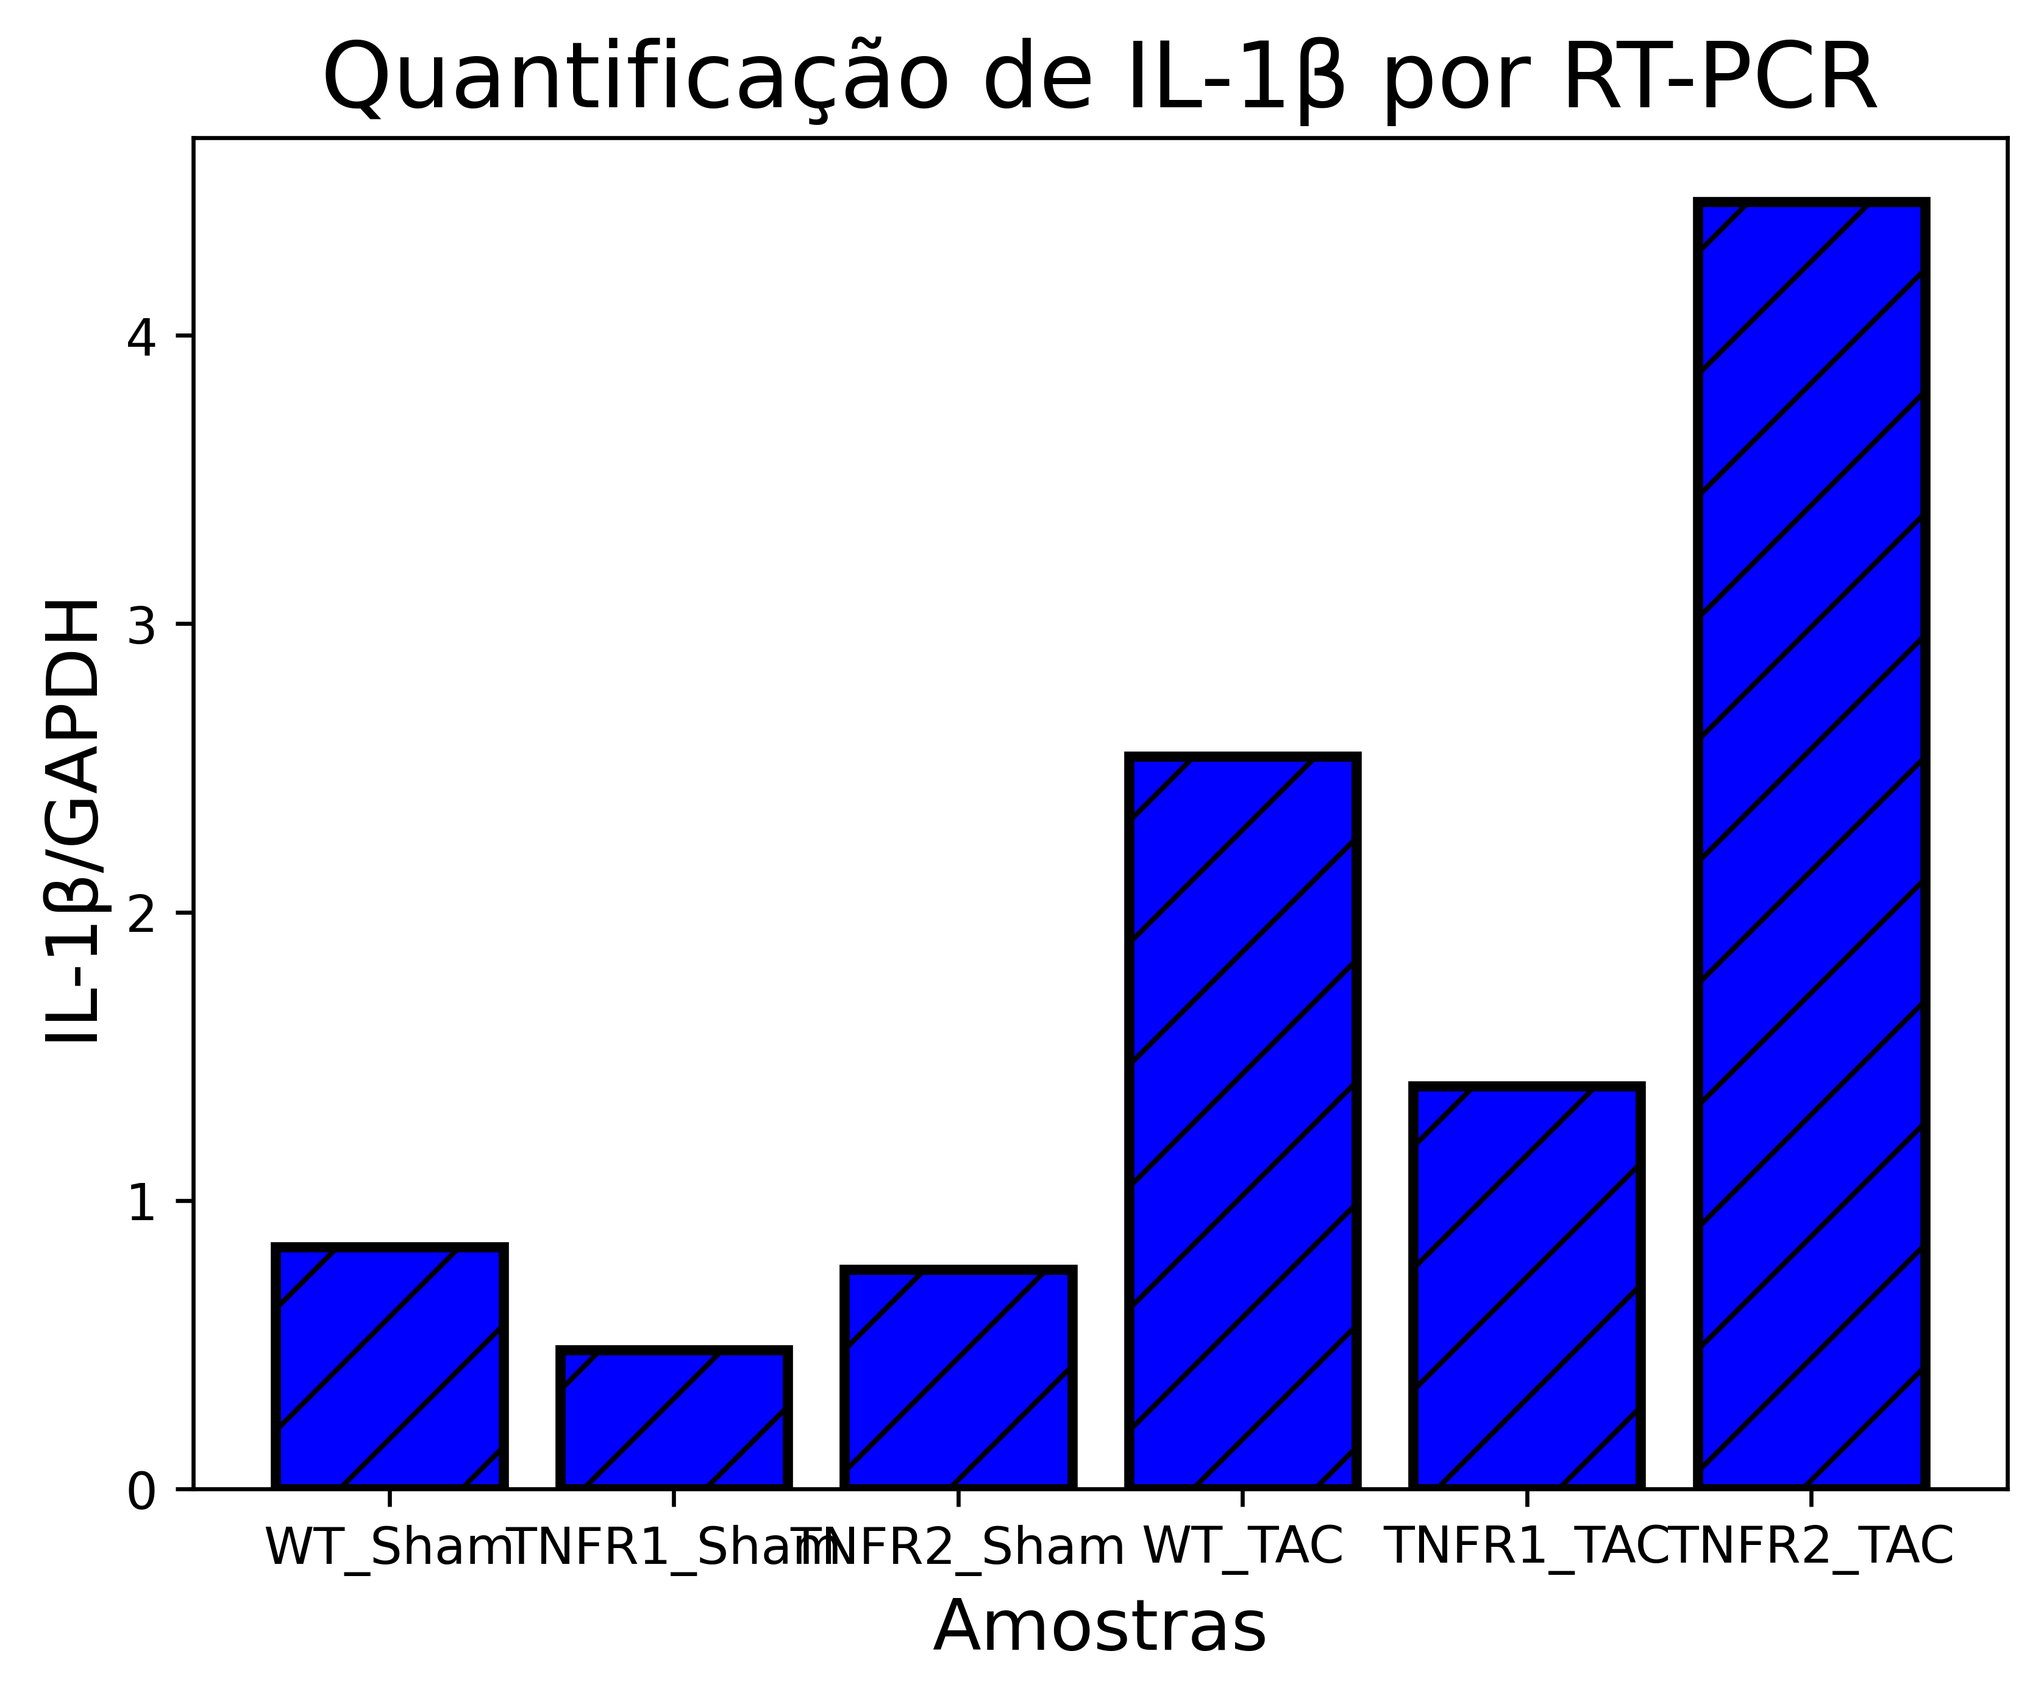
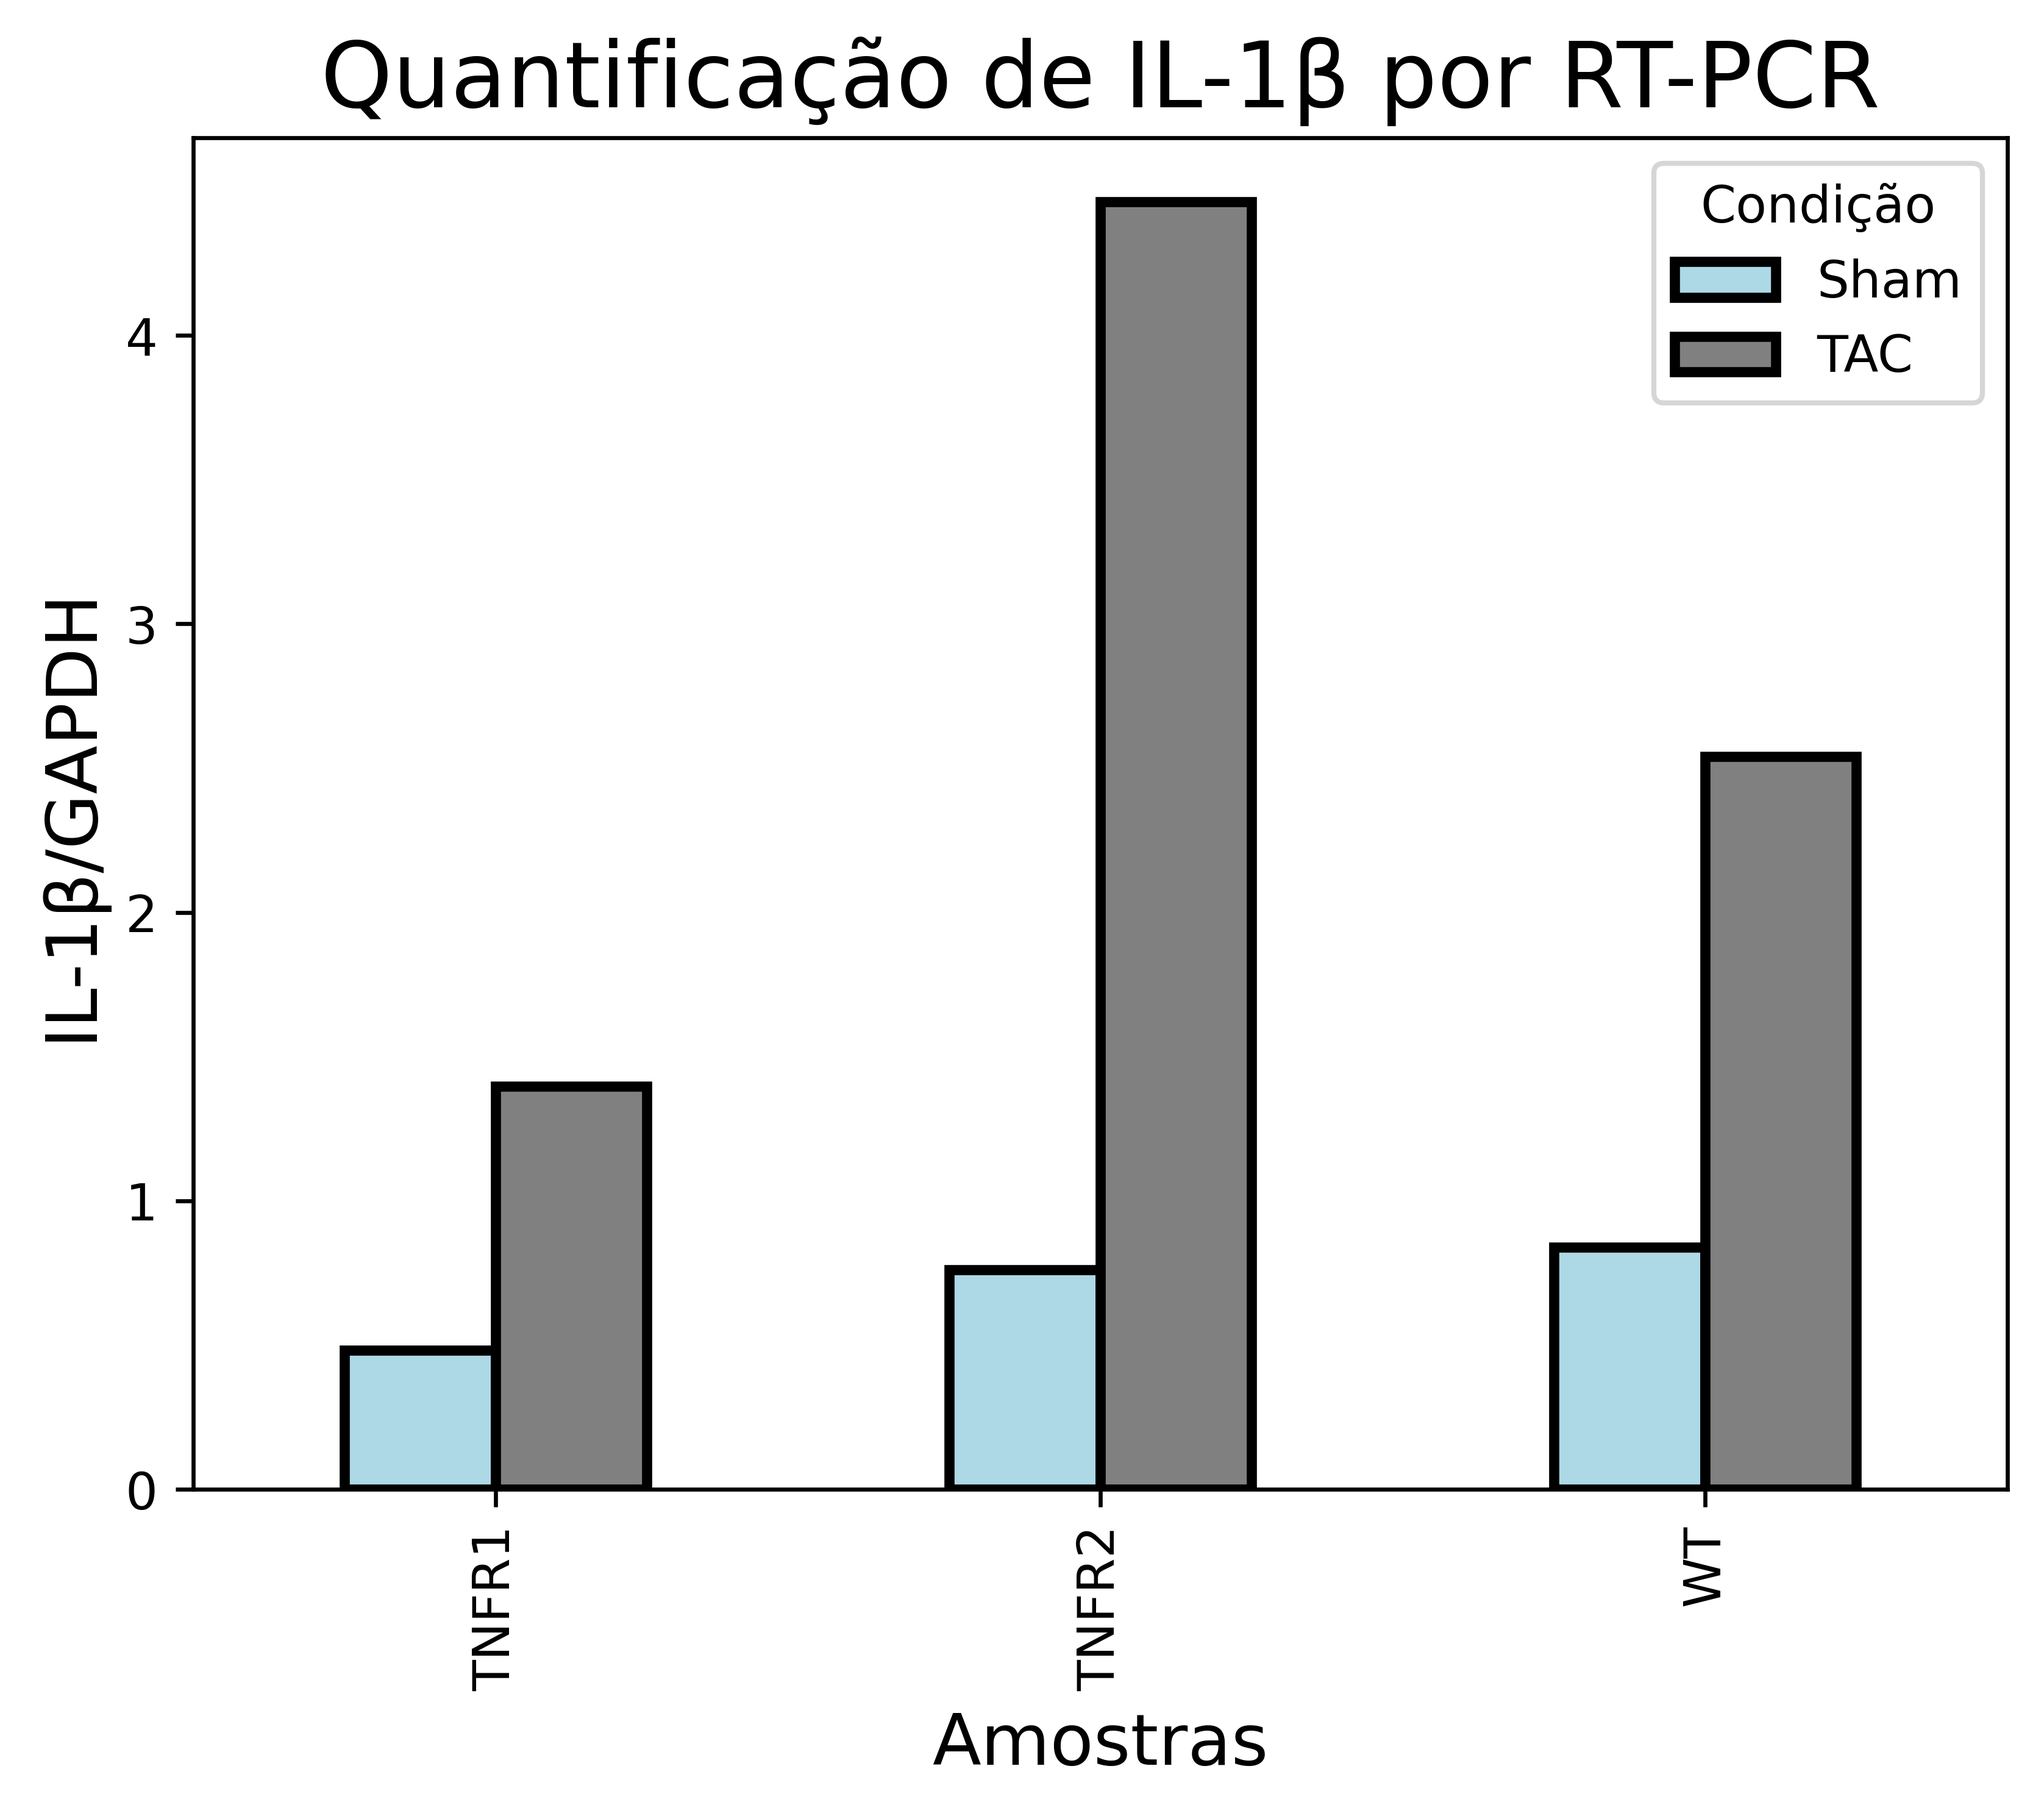
modified:   "Gr\303\241fico_barras.png" 	modified:   Problema1.py

diff --git a/Problema1.py b/Problema1.py
@@ -17,18 +17,18 @@ media = dados_IL1.mean()
 #Organizando a tabela para criar o gráfico
 dados_IL1_long = pd.melt(dados_IL1, var_name="Amostra", value_name="Resultado")
 print(dados_IL1_long.head())
-dados_IL1_long = dados_IL1_long.Amostra.str.split("_", expand=True)
-print(dados_IL1_long)
-
-#Organizando a tabela
+dados_IL1_long[['Genótipo', 'Condição']] = dados_IL1_long['Amostra'].str.split("_", expand=True)
+tabela_medias = dados_IL1_long.groupby(['Genótipo', 'Condição'])['Resultado'].mean().unstack()
+print(tabela_medias)
 
 #Gráfico
-plt.bar(dados_IL1.columns, media, color = "blue", edgecolor = "black", linewidth = 2, hatch = '/')
+tabela_medias.plot(kind='bar',color=["lightblue", "gray"], edgecolor="black", linewidth=2, figsize=(8, 8))
 plt.title("Quantificação de IL-1β por RT-PCR", fontsize = 18)
 plt.ylabel("IL-1β/GAPDH", fontsize = 14)
 plt.xlabel("Amostras", fontsize = 14)
 plt.savefig("Gráfico_barras.png", dpi = 600, bbox_inches = "tight")
 plt.show()
+
 
 
 
